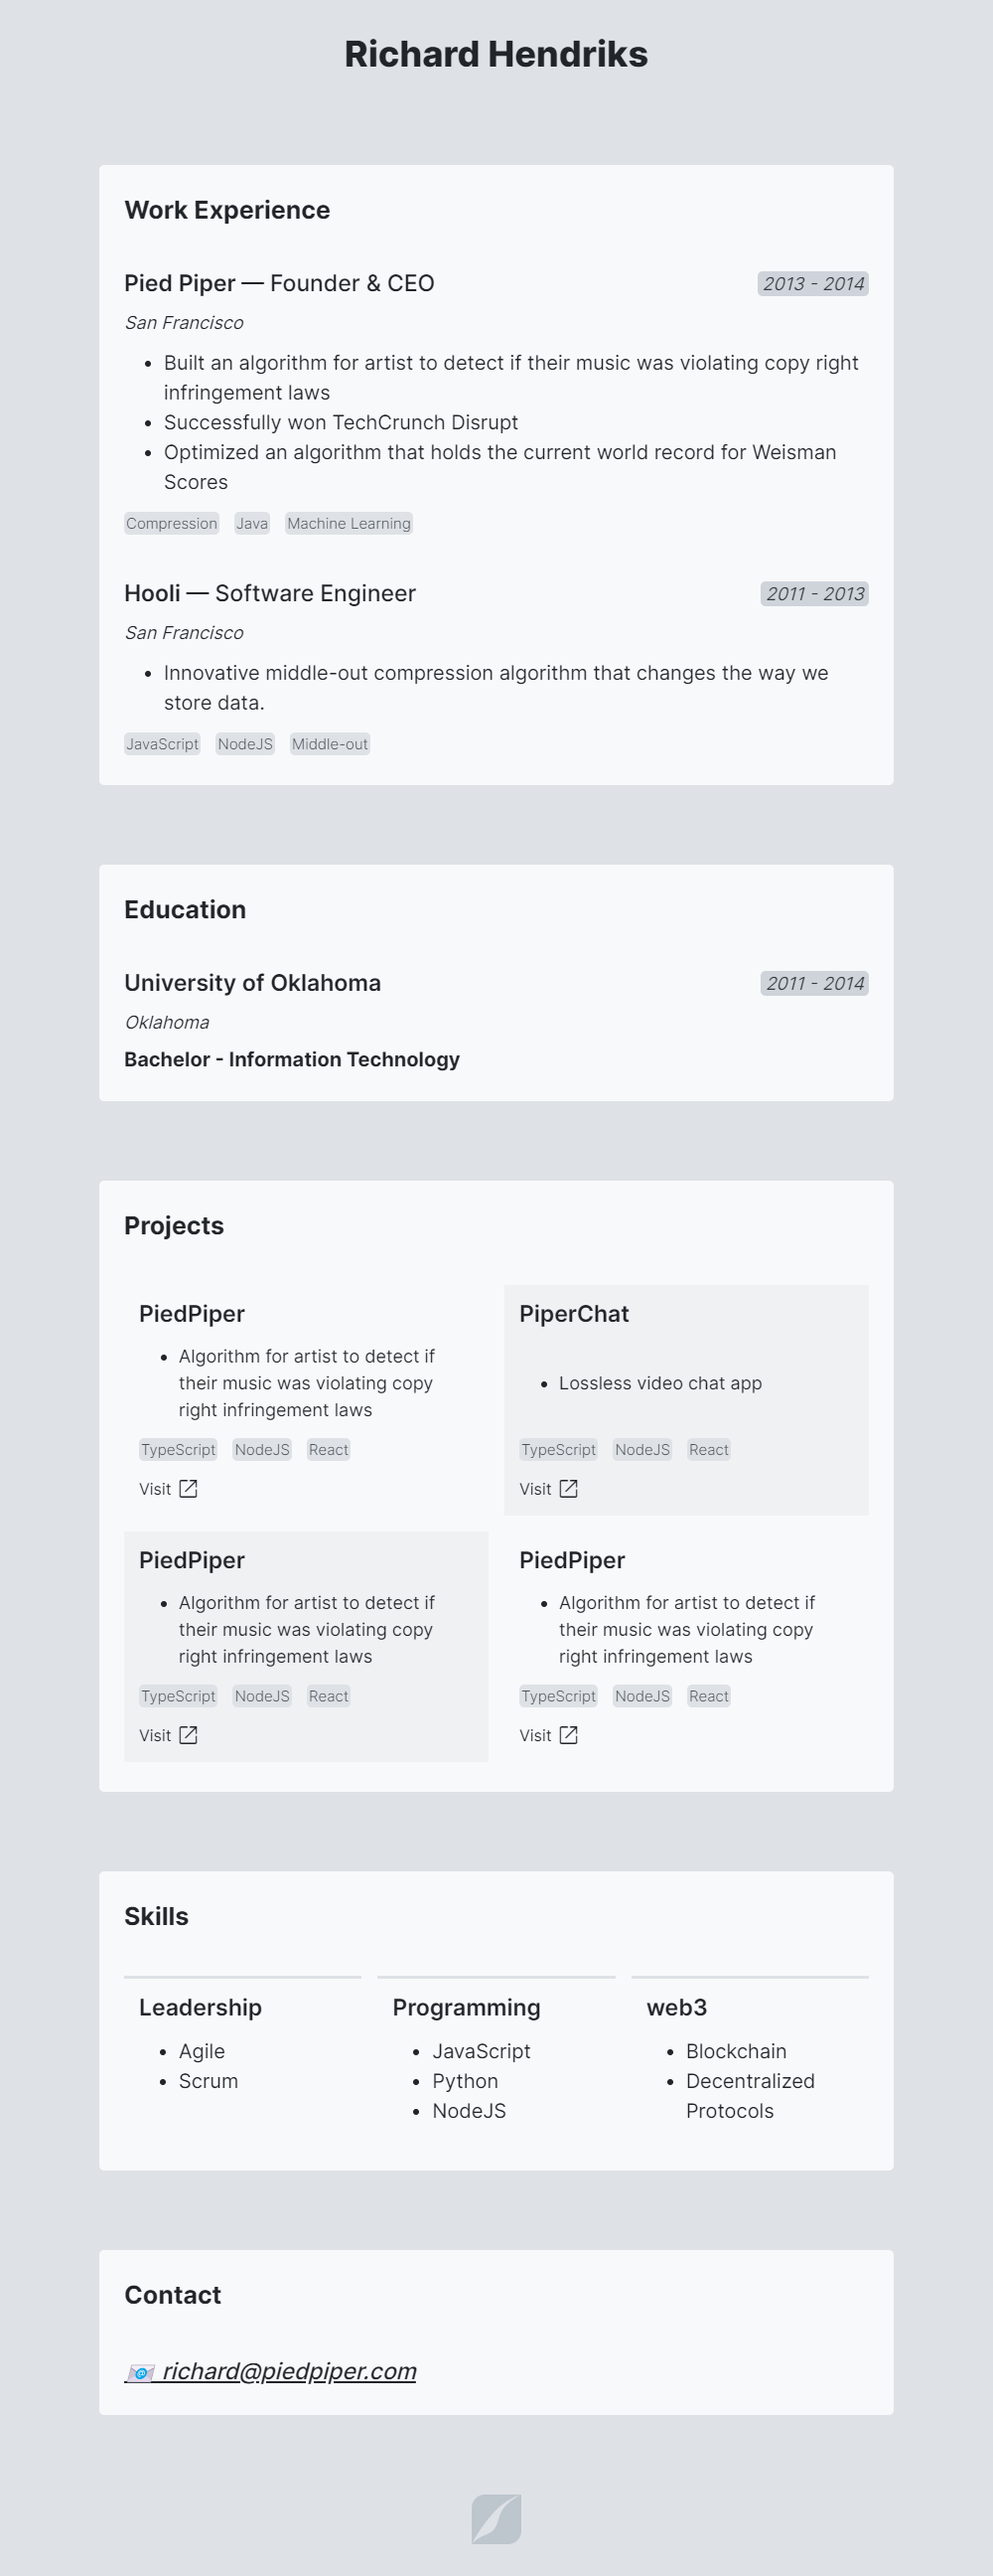
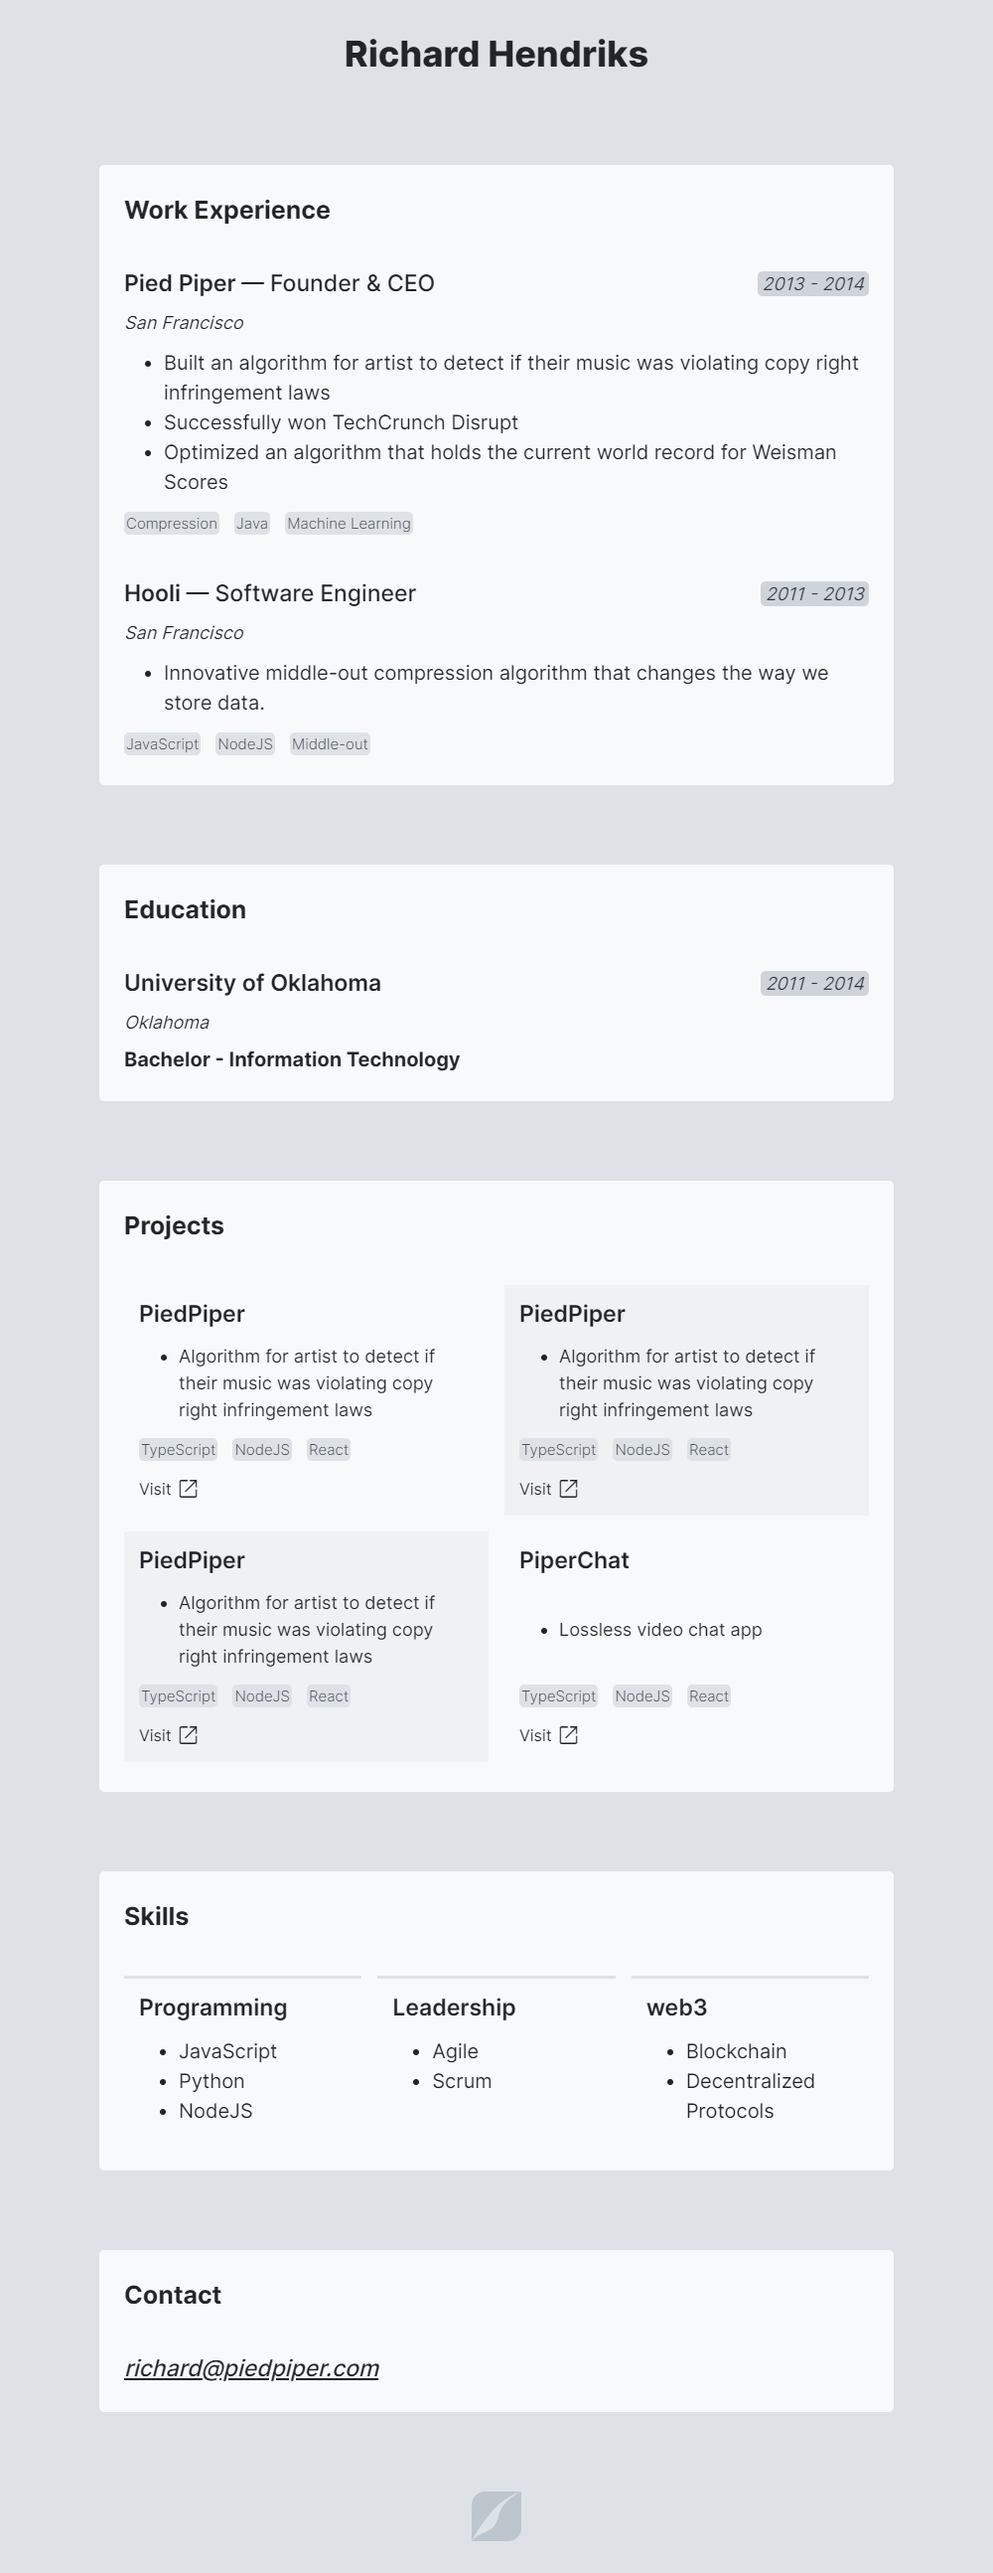
feat: theme-switcher

diff --git a/downloadAsPdf.js b/downloadAsPdf.js
@@ -3,12 +3,27 @@ import puppeteer from "puppeteer";
 (async () => {
   const browser = await puppeteer.launch({
     timeout: 0,
-    args: ["--disable-gpu", "--no-sandbox", "--disable-setuid-sandbox"],
     headless: true,
   });
   const page = await browser.newPage();
   await page.goto("http://localhost:3000", { waitUntil: "networkidle0" });
   await page.emulateMediaType("screen");
+
+  const colorPicker = await page.$('.color-picker');
+
+  if (colorPicker) {
+    await page.evaluate((element) => {
+      element.style.display = 'none';
+    }, colorPicker);
+  }
+
+  const localStorage = await page.evaluate(() =>  Object.assign({}, window.localStorage));
+  await page.evaluate((localStorage) => {
+    Object.keys(localStorage).forEach(key => {
+      localStorage.setItem(key, localStorage[key]);
+    });
+  }, localStorage);
+
   let height = await page.evaluate(() => document.documentElement.offsetHeight);
   await page.pdf({
     path: "resume.pdf",

diff --git a/src/styles/global.css b/src/styles/global.css
@@ -8,8 +8,21 @@
   --years-background-color: #ced4da;
   --tool-text-color: #495057;
   --tool-background-color: #dee2e6;
-  --projects-background-color: #EFF1F3;
+  --projects-background-color: #eff1f3;
 }
+
+/* :root {
+  --background-color: hsl(210, 14%, 89%);
+  --text-color: hsl(210, 11%, 15%);
+  --card-color: hsl(210, 17%, 98%);
+  --font-family: "Inter", sans-serif;
+  --border-radius: 5px;
+  --years-text-color: hsl(210, 10%, 23%);
+  --years-background-color: hsl(210, 14%, 83%);
+  --tool-text-color: hsl(210, 9%, 31%);
+  --tool-background-color: hsl(210, 14%, 89%);
+  --projects-background-color: hsl(210, 14%, 95%);
+} */
 
 /* Resets */
 

diff --git a/README.md b/README.md
@@ -30,11 +30,14 @@ Inside of this project, you'll see the following folders and files:
 │   └── favicon.svg
 │   └── piedpiper.png
 ├── src/
+│   └── components/
+│       └── themeSwitcher.astro
 │   └── layouts/
 │       └── contactLayout.astro
 │       └── educationLayout.astro
 │       └── imageLayout.astro
 │       └── jobsLayout.astro
+│       └── projectsLayout.astro
 │       └── sectionLayout.astro
 │       └── skillsLayout.astro
 │   └── pages/
@@ -45,11 +48,16 @@ Inside of this project, you'll see the following folders and files:
 │       └── image/
 │           └── signature.md
 │       └── jobs/
-│           └── hooli.md
+│           └── 1-hooli.md
+│           └── 2-piedpiper.md
+│       └── projects/
+│           └── piedpiper_copy_copy.md
+│           └── piperchat_copy.md
 │           └── piedpiper.md
+│           └── piperchat.md
 │       └── skills/
-│           └── leadership.md
-│           └── programming.md
+│           └── 1-leadership.md
+│           └── 2-programming.md
 │           └── web3.md
 │       └── index.astro
 │   └── styles/
@@ -76,8 +84,8 @@ All commands are run from the root of the project, from a terminal:
 
 ## To-do
 
-- Order work experience automatically by date
-- ~~Projects section~~ ✅
-- Option for custom links in the contact section
-- Theme support
-- Server-side resume creation, so the user doesn't have to use the command-line
+- Order work experience automatically by date 🌑
+- ~~Projects section~~ 🌕
+- Option for custom links in the contact section 🌑
+- Theme support 🌓
+- Server-side resume creation, so the user doesn't have to use the command-line 🌑

diff --git a/src/pages/contact/contact.md b/src/pages/contact/contact.md
@@ -1,5 +1,5 @@
 ---
 layout: ../../layouts/contactLayout.astro
 href: mailto:richard@piedpiper.com
-linkText: 📧 richard@piedpiper.com
+linkText: richard@piedpiper.com
 ---
